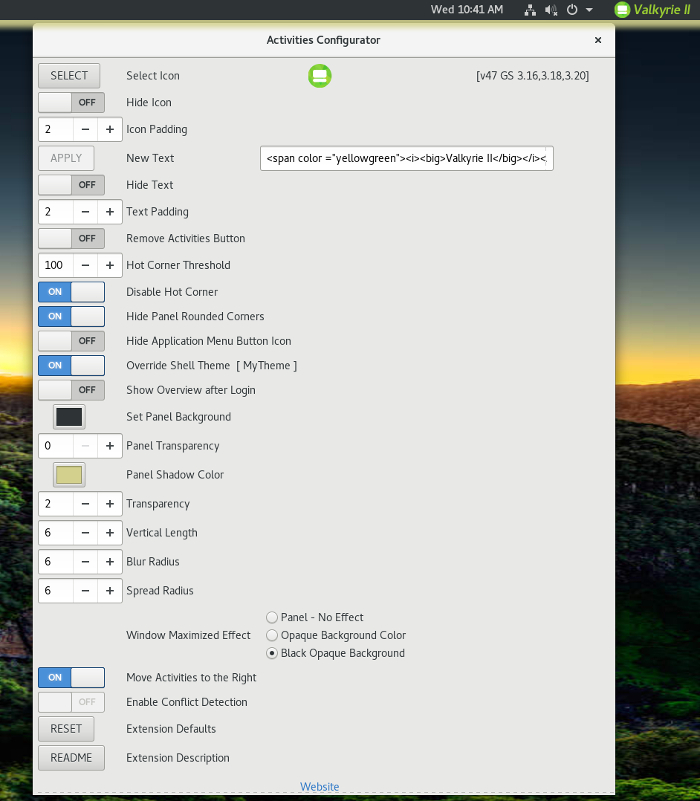
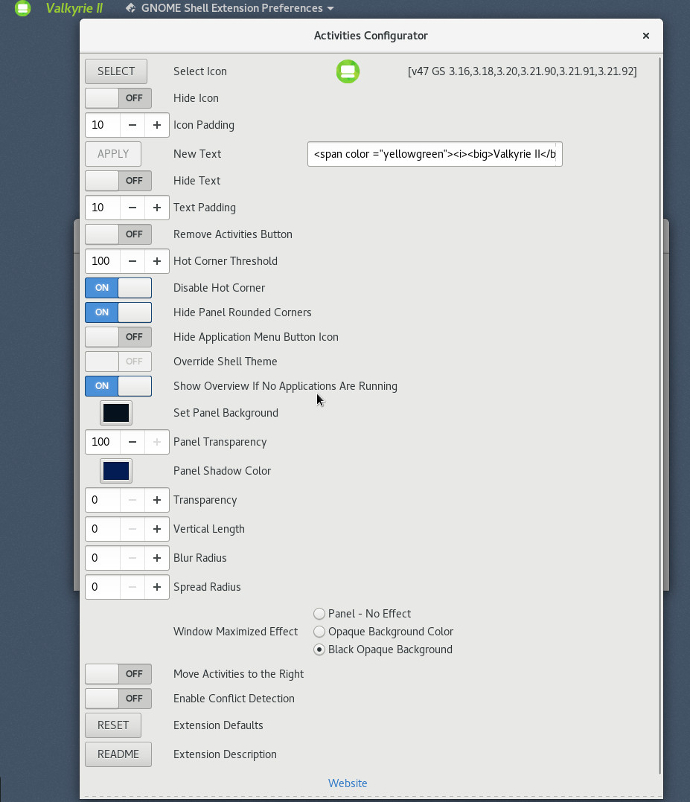
Activities Configurator - Version 49

diff --git a/latestupdate.html b/latestupdate.html
@@ -9,7 +9,11 @@ body {font-family: Verdana, sans-serif; font-size:1.05em; background-color:#EDED
 </style>
 </head>
 <body>
-<h4>Latest Update Version 47 3.16 3.18 3.20</h4>
+<h4>Latest Update Version 49 3.16 3.18 3.20 3.21.90 3.21.91 3.21.92</h4>
+<p>The <b>Show Overview after Login</b> preference has been extended to become the <b>Show Overview if No Applications are Running</b> preference. 
+With this preference the Overview is displayed after login and anytime the last application window is closed to provide quick access to the Applications menu.  
+</p>
+<h4>Version 47 3.16 3.18 3.20</h4>
 <p>The <b>Move Activities to the Right</b> preference was added to the extension.
 This preference when selected moves the Activities Button to the right corner of the Panel.
 The Hot Corner location remains in the left corner of the Panel.  This option was a user's request.

diff --git a/features.html b/features.html
@@ -41,7 +41,7 @@ footer { font-family: Verdana, sans-serif; margin:5px; font-size:0.7em; backgrou
         <li>The Panel's rounded corners can be hidden.</li>
         <li>The application menu button can be hidden.</li>
         <li>The Shell Theme can be optionally overridden.</li>
-        <li>The Overview can be displayed at login.</li>
+        <li>The Overview can be displayed if no applications are running (at login and whenever the last application window is closed).</li>
         <li>The Panel Background can be changed.</li>       
         <li>The Panel background color transparency is adjustable.</li>
         <li>A configurable Shadow Effect can be added to the Panel.</li>

diff --git a/activities_config_zip.html b/activities_config_zip.html
@@ -27,6 +27,10 @@
 <td><h3>Gnome Shell Version(s)</h3></td>
 </tr>
 <tr>
+<td><a href="https://extensions.gnome.org/review/download/6162.shell-extension.zip">v49</a></td><td>&nbsp&nbsp&nbsp</td>
+<td><strong>3.16 3.18 3.20 3.21.90 3.21.91 3.21.92</strong></td>
+</tr>
+<tr>
 <td><a href="https://extensions.gnome.org/review/download/6062.shell-extension.zip">v47</a></td><td>&nbsp&nbsp&nbsp</td>
 <td><strong>3.16 3.18 3.20</strong></td>
 </tr>

diff --git a/content.html b/content.html
@@ -31,5 +31,4 @@ header {margin:5px; adding:8px;}
 		or a compatible license unless otherwise specified.<br>
 		</p>
 </body>
-<footer><a href="./images/whoanellybelle.jpg">In memory of Robert Ellsworth Patrick Aloysious O'Brady 1914-1972</a></footer>
 </html>
